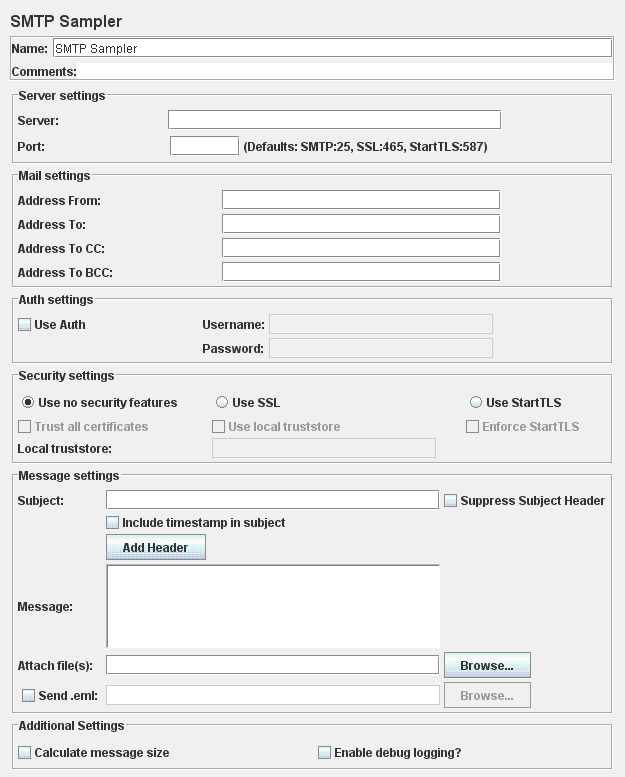
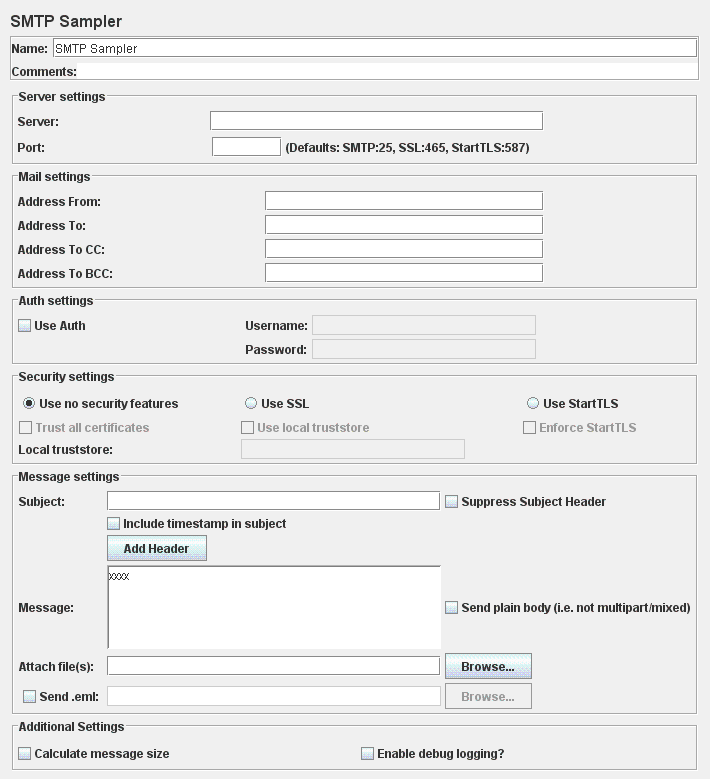
Bug 49775 - Allow sending messages without a body
git-svn-id: https://svn.apache.org/repos/asf/jakarta/jmeter/trunk@991510 13f79535-47bb-0310-9956-ffa450edef68

diff --git a/src/protocol/mail/org/apache/jmeter/protocol/smtp/sampler/gui/SmtpPanel.java b/src/protocol/mail/org/apache/jmeter/protocol/smtp/sampler/gui/SmtpPanel.java
@@ -22,6 +22,7 @@ import java.awt.GridBagConstraints;
 import java.awt.GridBagLayout;
 import java.awt.event.ActionEvent;
 import java.awt.event.ActionListener;
+import java.io.File;
 import java.util.HashMap;
 import java.util.Iterator;
 import java.util.Map;
@@ -63,6 +64,7 @@ public class SmtpPanel extends JPanel {
     private JTextField tfAttachment;
     private JTextField tfEmlMessage;
     private JTextArea taMessage;
+    private JCheckBox cbPlainBody;
 
     private JLabel jlAddressFrom;
     private JLabel jlAddressTo;
@@ -298,6 +300,24 @@ public class SmtpPanel extends JPanel {
     }
 
     /**
+     * Returns true if message body should be plain (i.e. not multipart/mixed)
+     *
+     * @return true if using plain message body (i.e. not multipart/mixed)
+     */
+    public boolean isPlainBody() {
+        return cbPlainBody.isSelected();
+    }
+
+    /**
+     * Sets the property that defines if the body should be plain (i.e. not multipart/mixed)
+     *
+     * @param plainBody whether to use a plain body (i.e. not multipart/mixed)
+     */
+    public void setPlainBody(boolean plainBody) {
+    	cbPlainBody.setSelected(plainBody);
+    }
+
+    /**
      * Returns if mail-server needs authentication (checkbox)
      *
      * @return true if authentication is used
@@ -484,6 +504,8 @@ public class SmtpPanel extends JPanel {
 
         taMessage = new JTextArea(5, 20);
 
+        cbPlainBody = new JCheckBox(JMeterUtils.getResString("smtp_plainbody")); // $NON-NLS-1$
+        
         cbSuppressSubject = new JCheckBox(JMeterUtils.getResString("smtp_suppresssubj")); // $NON-NLS-1$
         cbSuppressSubject.addActionListener(new ActionListener() {
             public void actionPerformed(ActionEvent evt) {
@@ -742,6 +764,13 @@ public class SmtpPanel extends JPanel {
         gridBagConstraints.gridy = 3;
         gridBagConstraints.fill = GridBagConstraints.BOTH;
         panelMessageSettings.add(taMessage, gridBagConstraints);
+        
+        cbPlainBody.setBorder(BorderFactory.createEmptyBorder(0, 0, 0, 0));
+        cbPlainBody.setMargin(new java.awt.Insets(0, 0, 0, 0));
+        gridBagConstraints.gridx = 2;
+        gridBagConstraints.gridy = 3;
+        gridBagConstraints.fill = GridBagConstraints.NONE;
+        panelMessageSettings.add(cbPlainBody, gridBagConstraints);
 
         gridBagConstraints.gridx = 0;
         gridBagConstraints.gridy = 4;
@@ -844,15 +873,17 @@ public class SmtpPanel extends JPanel {
      *            ActionEvent to be handled
      */
     private void attachmentFolderFileChooserActionPerformed(ActionEvent evt) {
+        File chosen = attachmentFileChooser.getSelectedFile();
+        if (chosen == null){
+            return;
+        }
         final String attachments = tfAttachment.getText().trim();
         if (null != attachments && attachments.length() > 0) {
             tfAttachment.setText(attachments
                             + SmtpSampler.FILENAME_SEPARATOR
-                            + attachmentFileChooser.getSelectedFile()
-                                    .getAbsolutePath());
+                            + chosen.getAbsolutePath());
         } else {
-            tfAttachment.setText(attachmentFileChooser.getSelectedFile()
-                    .getAbsolutePath());
+            tfAttachment.setText(chosen.getAbsolutePath());
         }
 
     }
@@ -939,6 +970,7 @@ public class SmtpPanel extends JPanel {
         tfMailToBCC.setText("");
         tfMailToCC.setText("");
         tfSubject.setText("");
+        cbPlainBody.setSelected(false);
         cbSuppressSubject.setSelected(false);
         securitySettingsPanel.clear();
         clearHeaderFields();
@@ -1041,4 +1073,5 @@ public class SmtpPanel extends JPanel {
             }
         }
     }
+	
 }

diff --git a/src/protocol/mail/org/apache/jmeter/protocol/smtp/sampler/protocol/SendMailCommand.java b/src/protocol/mail/org/apache/jmeter/protocol/smtp/sampler/protocol/SendMailCommand.java
@@ -21,6 +21,7 @@ package org.apache.jmeter.protocol.smtp.sampler.protocol;
 import java.io.File;
 import java.io.FileInputStream;
 import java.io.IOException;
+import java.io.InputStream;
 import java.util.ArrayList;
 import java.util.List;
 import java.util.Properties;
@@ -38,6 +39,7 @@ import javax.mail.internet.MimeBodyPart;
 import javax.mail.internet.MimeMessage;
 import javax.mail.internet.MimeMultipart;
 
+import org.apache.commons.io.IOUtils;
 import org.apache.jmeter.config.Argument;
 import org.apache.jmeter.services.FileServer;
 import org.apache.jmeter.testelement.property.CollectionProperty;
@@ -90,9 +92,11 @@ public class SendMailCommand {
     private boolean synchronousMode;
 
     private Session session;
-    private Message message;
 
-    private StringBuffer serverResponse = new StringBuffer();
+    private StringBuffer serverResponse = new StringBuffer(); // TODO this is not populated currently
+
+    /** send plain body, i.e. not multipart/mixed */
+	private boolean plainBody;
 
     /**
      * Standard-Constructor
@@ -165,6 +169,8 @@ public class SendMailCommand {
         }
 
         session = Session.getInstance(props, null);
+        
+        Message message;
 
         if (sendEmlMessage) {
             message = new MimeMessage(session, new FileInputStream(emlMessage));
@@ -172,18 +178,33 @@ public class SendMailCommand {
             message = new MimeMessage(session);
             // handle body and attachments
             Multipart multipart = new MimeMultipart();
-            BodyPart body = new MimeBodyPart();
-            body.setText(mailBody);
-            multipart.addBodyPart(body);
-
-            for (File f : attachments) {
-                BodyPart attach = new MimeBodyPart();
-                attach.setFileName(f.getName());
-                attach.setDataHandler(new DataHandler(new FileDataSource(f)));
-                multipart.addBodyPart(attach);
+            final int attachmentCount = attachments.size();
+            if (plainBody && 
+               (attachmentCount == 0 ||  (mailBody.length() == 0 && attachmentCount == 1))) {
+                if (attachmentCount == 1) { // i.e. mailBody is empty
+                    File first = attachments.get(0);
+                    InputStream is = null;
+                    try {
+                        is = new FileInputStream(first);
+                        message.setText(IOUtils.toString(is));
+                    } finally {
+                        IOUtils.closeQuietly(is);
+                    }
+                } else {
+                    message.setText(mailBody);
+                }
+            } else {
+                BodyPart body = new MimeBodyPart();
+                body.setText(mailBody);
+                multipart.addBodyPart(body);
+                for (File f : attachments) {
+                    BodyPart attach = new MimeBodyPart();
+                    attach.setFileName(f.getName());
+                    attach.setDataHandler(new DataHandler(new FileDataSource(f.getAbsolutePath())));
+                    multipart.addBodyPart(attach);
+                }
+                message.setContent(multipart);
             }
-
-            message.setContent(multipart);
         }
 
         // set from field and subject
@@ -721,6 +742,15 @@ public class SendMailCommand {
      */
     public void setMailBody(String body){
         mailBody = body;
+    }
+    
+    /**
+     * Set whether to send a plain body (i.e. not multipart/mixed)
+     *
+     * @param plainBody <code>true</code> if sending a plain body (i.e. not multipart/mixed)
+     */
+    public void setPlainBody(boolean plainBody){
+    	this.plainBody = plainBody;
     }
 
     public StringBuffer getServerResponse() {

diff --git a/src/protocol/mail/org/apache/jmeter/protocol/smtp/sampler/SmtpSampler.java b/src/protocol/mail/org/apache/jmeter/protocol/smtp/sampler/SmtpSampler.java
@@ -37,6 +37,7 @@ import org.apache.jmeter.protocol.smtp.sampler.tools.CounterOutputStream;
 import org.apache.jmeter.samplers.AbstractSampler;
 import org.apache.jmeter.samplers.Entry;
 import org.apache.jmeter.samplers.SampleResult;
+import org.apache.jmeter.services.FileServer;
 import org.apache.jmeter.testelement.property.CollectionProperty;
 import org.apache.jorphan.logging.LoggingManager;
 import org.apache.log.Logger;
@@ -68,6 +69,7 @@ public class SmtpSampler extends AbstractSampler {
     public final static String SUBJECT              = "SMTPSampler.subject"; // $NON-NLS-1$
     public final static String SUPPRESS_SUBJECT     = "SMTPSampler.suppressSubject"; // $NON-NLS-1$
     public final static String MESSAGE              = "SMTPSampler.message"; // $NON-NLS-1$
+    public final static String PLAIN_BODY           = "SMTPSampler.plainBody"; // $NON-NLS-1$
     public final static String INCLUDE_TIMESTAMP    = "SMTPSampler.include_timestamp"; // $NON-NLS-1$
     public final static String ATTACH_FILE          = "SMTPSampler.attachFile"; // $NON-NLS-1$
     public final static String MESSAGE_SIZE_STATS   = "SMTPSampler.messageSizeStatistics"; // $NON-NLS-1$
@@ -149,11 +151,18 @@ public class SmtpSampler extends AbstractSampler {
             if (!getPropertyAsBoolean(USE_EML)) { // part is only needed if we
                 // don't send an .eml-file
                 instance.setMailBody(getPropertyAsString(MESSAGE));
+                instance.setPlainBody(getPropertyAsBoolean(PLAIN_BODY));
                 final String filesToAttach = getPropertyAsString(ATTACH_FILE);
                 if (!filesToAttach.equals("")) {
                     String[] attachments = filesToAttach.split(FILENAME_SEPARATOR);
                     for (String attachment : attachments) {
-                        instance.addAttachment(new File(attachment));
+                    	File file = new File(attachment);
+                    	if(!file.isAbsolute() && !file.exists()){
+                            log.debug("loading file with relative path: " +attachment);
+                            file = new File(FileServer.getFileServer().getBaseDir(), attachment);
+                            log.debug("file path set to: "+attachment);
+                        }
+                        instance.addAttachment(file);
                     }
                 }
 

diff --git a/src/protocol/mail/org/apache/jmeter/protocol/smtp/sampler/gui/SmtpSamplerGui.java b/src/protocol/mail/org/apache/jmeter/protocol/smtp/sampler/gui/SmtpSamplerGui.java
@@ -74,6 +74,7 @@ public class SmtpSamplerGui extends AbstractSamplerGui {
         smtpPanel.setReceiverBCC(element.getPropertyAsString(SmtpSampler.RECEIVER_BCC));
 
         smtpPanel.setBody(element.getPropertyAsString(SmtpSampler.MESSAGE));
+        smtpPanel.setPlainBody(element.getPropertyAsBoolean(SmtpSampler.PLAIN_BODY));
         smtpPanel.setSubject(element.getPropertyAsString(SmtpSampler.SUBJECT));
         smtpPanel.setSuppressSubject(element.getPropertyAsBoolean(SmtpSampler.SUPPRESS_SUBJECT));
         smtpPanel.setIncludeTimestamp(element.getPropertyAsBoolean(SmtpSampler.INCLUDE_TIMESTAMP));
@@ -130,6 +131,7 @@ public class SmtpSamplerGui extends AbstractSamplerGui {
         te.setProperty(SmtpSampler.SUPPRESS_SUBJECT, Boolean.toString(smtpPanel.isSuppressSubject()));
         te.setProperty(SmtpSampler.INCLUDE_TIMESTAMP, Boolean.toString(smtpPanel.isIncludeTimestamp()));
         te.setProperty(SmtpSampler.MESSAGE, smtpPanel.getBody());
+        te.setProperty(SmtpSampler.PLAIN_BODY, Boolean.toString(smtpPanel.isPlainBody()));
         te.setProperty(SmtpSampler.ATTACH_FILE, smtpPanel.getAttachments());
         
         SecuritySettingsPanel secPanel = smtpPanel.getSecuritySettingsPanel();
